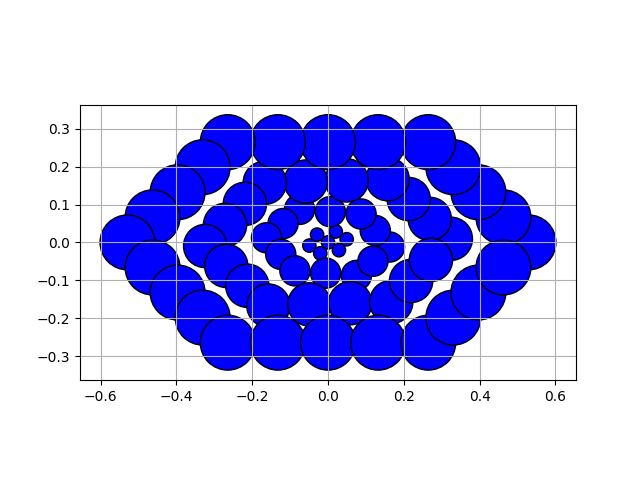
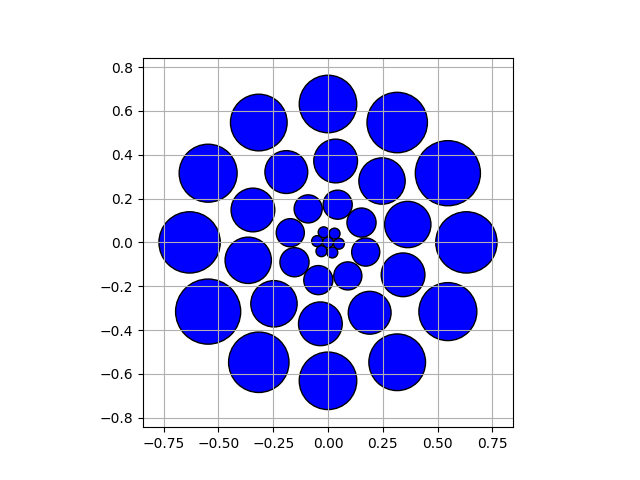
circular and nearest neighbor

diff --git a/circ_rps.py b/circ_rps.py
@@ -1,0 +1,69 @@
+# -*- coding: utf-8 -*-
+"""
+Created on Tue Oct 18 15:19:47 2022
+
+@author: Matt Dodd
+"""
+import numpy as np
+from array_funcs import *
+
+def circ_count(len_d, count=0):
+    count = 6+(2*len_d) + count
+    if len_d <=0:
+        return count
+    len_d = len_d-1
+    return circ_count(len_d,count)
+
+def rps(fmax,r,N):
+    d0 = (3e8/fmax)/2
+    if r >=1:
+        xi = 1
+    else:
+        xi = 1/((N**r) - (N-1)**r)
+    d= np.zeros(N+1)
+    for n in range(N+1):
+        d[n] = d0*xi*(n+1)**r 
+    
+    return d
+
+def rotate(xs,ys,theta,d):
+    if len(theta) > len(d):
+        print('Received more rotation angles than layers...')
+        return
+    theta = theta * np.pi / 180
+    rotmat = np.array([[np.cos(theta), -1*np.sin(theta)],
+                       [np.sin(theta), np.cos(theta)]])
+    for n,t in enumerate(theta):
+        if n==0: b=0
+        else: b = circ_count(n-1)
+        if n>0: b+=1
+        e = circ_count(n) +1
+        [xs[b:e],ys[b:e]] = np.matmul(rotmat[:,:,n],[xs[b:e],ys[b:e]])
+    return xs,ys
+                       
+    
+
+def circ_positions(d):
+    xs = [] 
+    ys = [] 
+    for n,dn in enumerate(d):
+        n_layer = (2*n) +6
+        wd = (2*np.pi/n_layer)
+        for w in np.arange(0,(2*np.pi),wd):
+            xs.append(dn*np.cos(w))
+            ys.append(dn*np.sin(w))
+
+    xs = np.insert(xs,0,0)
+    ys = np.insert(ys,0,0)
+    return xs,ys
+if __name__ == '__main__':
+    import matplotlib.pyplot as plt
+    d= rps(3e9,0.8,3)
+    xs, ys = circ_positions(d)
+    rs = np.array([20,-10.3,-1.58,12.58])
+    #xs,ys = rotate(xs,ys,rs,d)
+    plt.scatter(xs,ys)
+    plt.grid()
+    ax = plt.gca()
+    ax.set_aspect('equal','box')
+    plt.show()

diff --git a/entry.py b/entry.py
@@ -2,8 +2,10 @@ import pyswarms as ps
 import numpy as np
 from matplotlib.pyplot import *
 from matplotlib.patches import Circle
+from scipy.spatial import KDTree
 import subprocess,os,fileinput,re,shutil
 from hex_rps import *
+from circ_rps import *
 from array_funcs import *
 regex = re.compile(r'\d+')
 
@@ -33,13 +35,12 @@ def cost_function(r,thetas,plots=False):
     fmax = 3e9
     fmin = 0.35e9
     d = rps(fmax,r,N)
-    spirads = d
-    spirads[1:] = (d[1:]-d[0:-1])
-    spirads = np.sqrt(2*spirads**2)/4
-    d = rps(fmax,r,N)
-    xs, ys = hex_positions(d)
+    xs, ys = circ_positions(d)
     xs, ys = rotate(xs,ys,thetas,d)
     circs = [None]*len(xs)
+    points = list(zip(xs.ravel(),ys.ravel()))
+    spirads = KDTree(points).query(points,k=[2])[0].flatten()
+    spirads = spirads/2
     if plots:
         fig,ax = subplots()
         ax.set_xlim(xmin=-np.max(d)*1.5,xmax=np.max(d)*1.5)
@@ -48,10 +49,8 @@ def cost_function(r,thetas,plots=False):
         ax.axis([-xmax, xmax, -ymax, ymax])
         dind = 1
         for i in range(len(xs)):
-            circs[i] = Circle((xs[i],ys[i]),spirads[dind-1],facecolor='blue',edgecolor='k')
+            circs[i] = Circle((xs[i],ys[i]),spirads[i],facecolor='blue',edgecolor='k')
             ax.add_patch(circs[i])
-            if i >= hex_count(dind):
-                dind+=1
         ax.grid()
         ax.set_aspect('equal','box')
         fig.savefig('circles.png')
